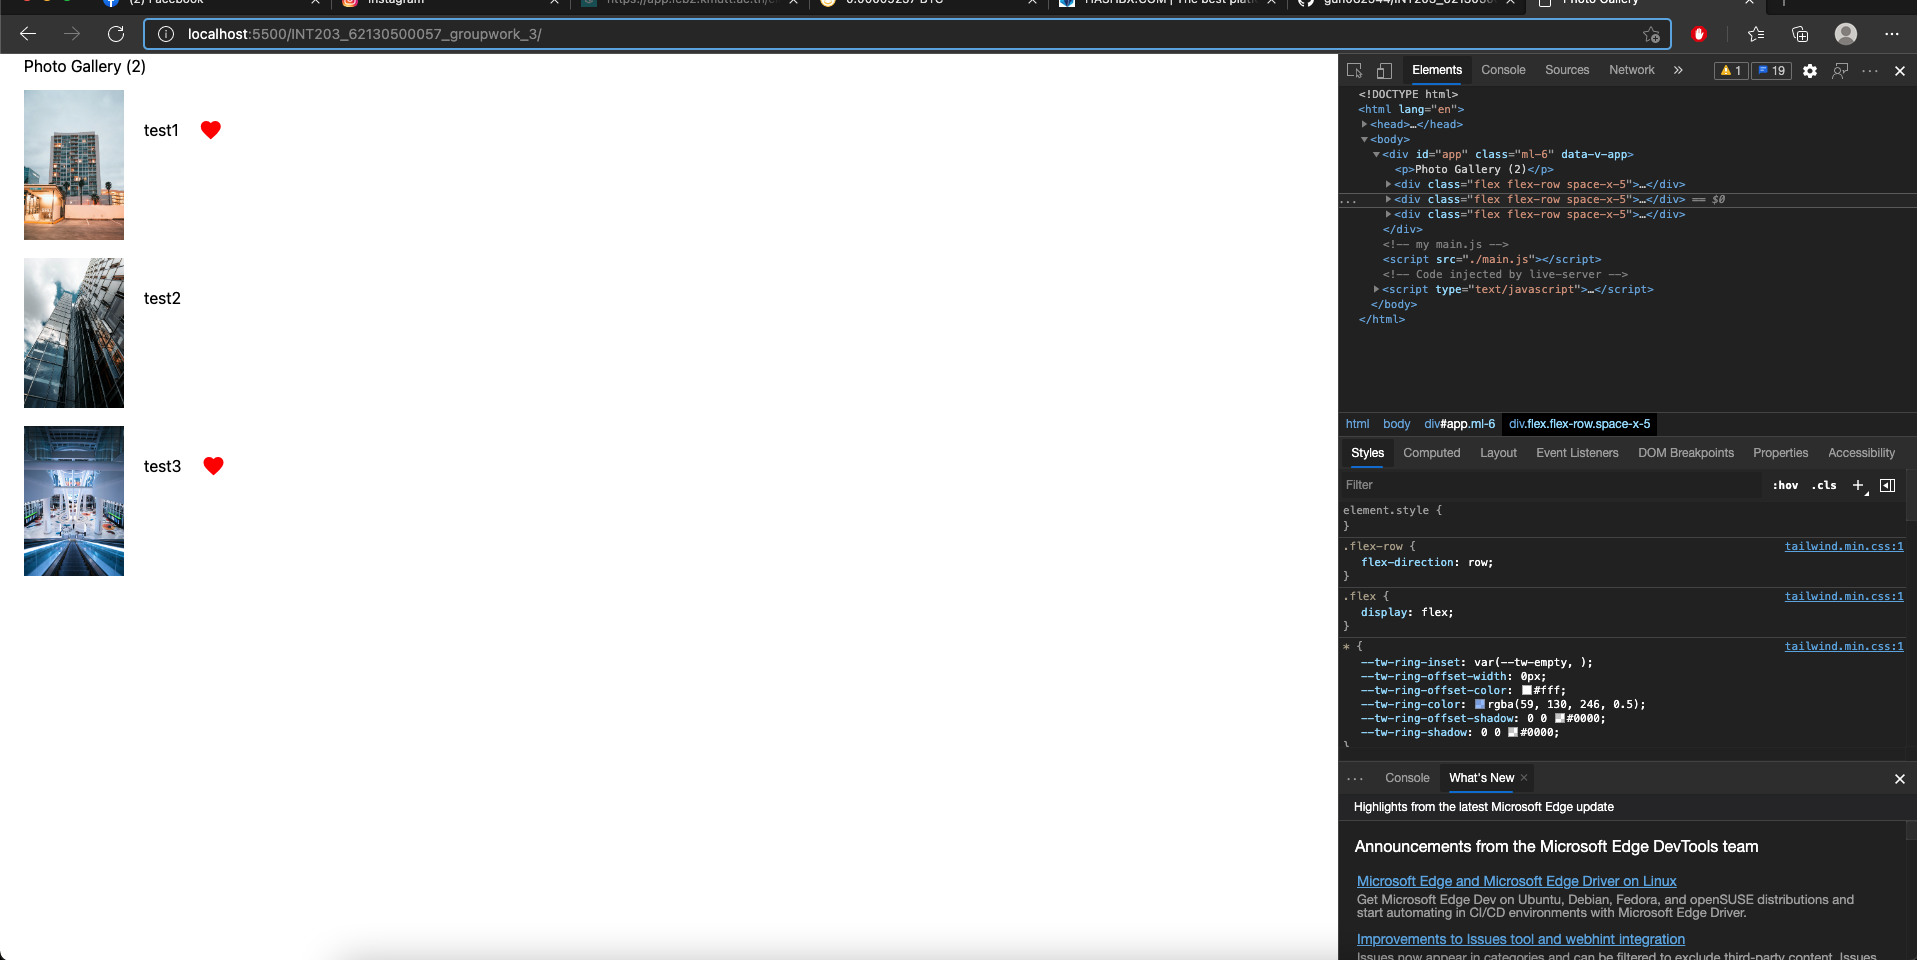
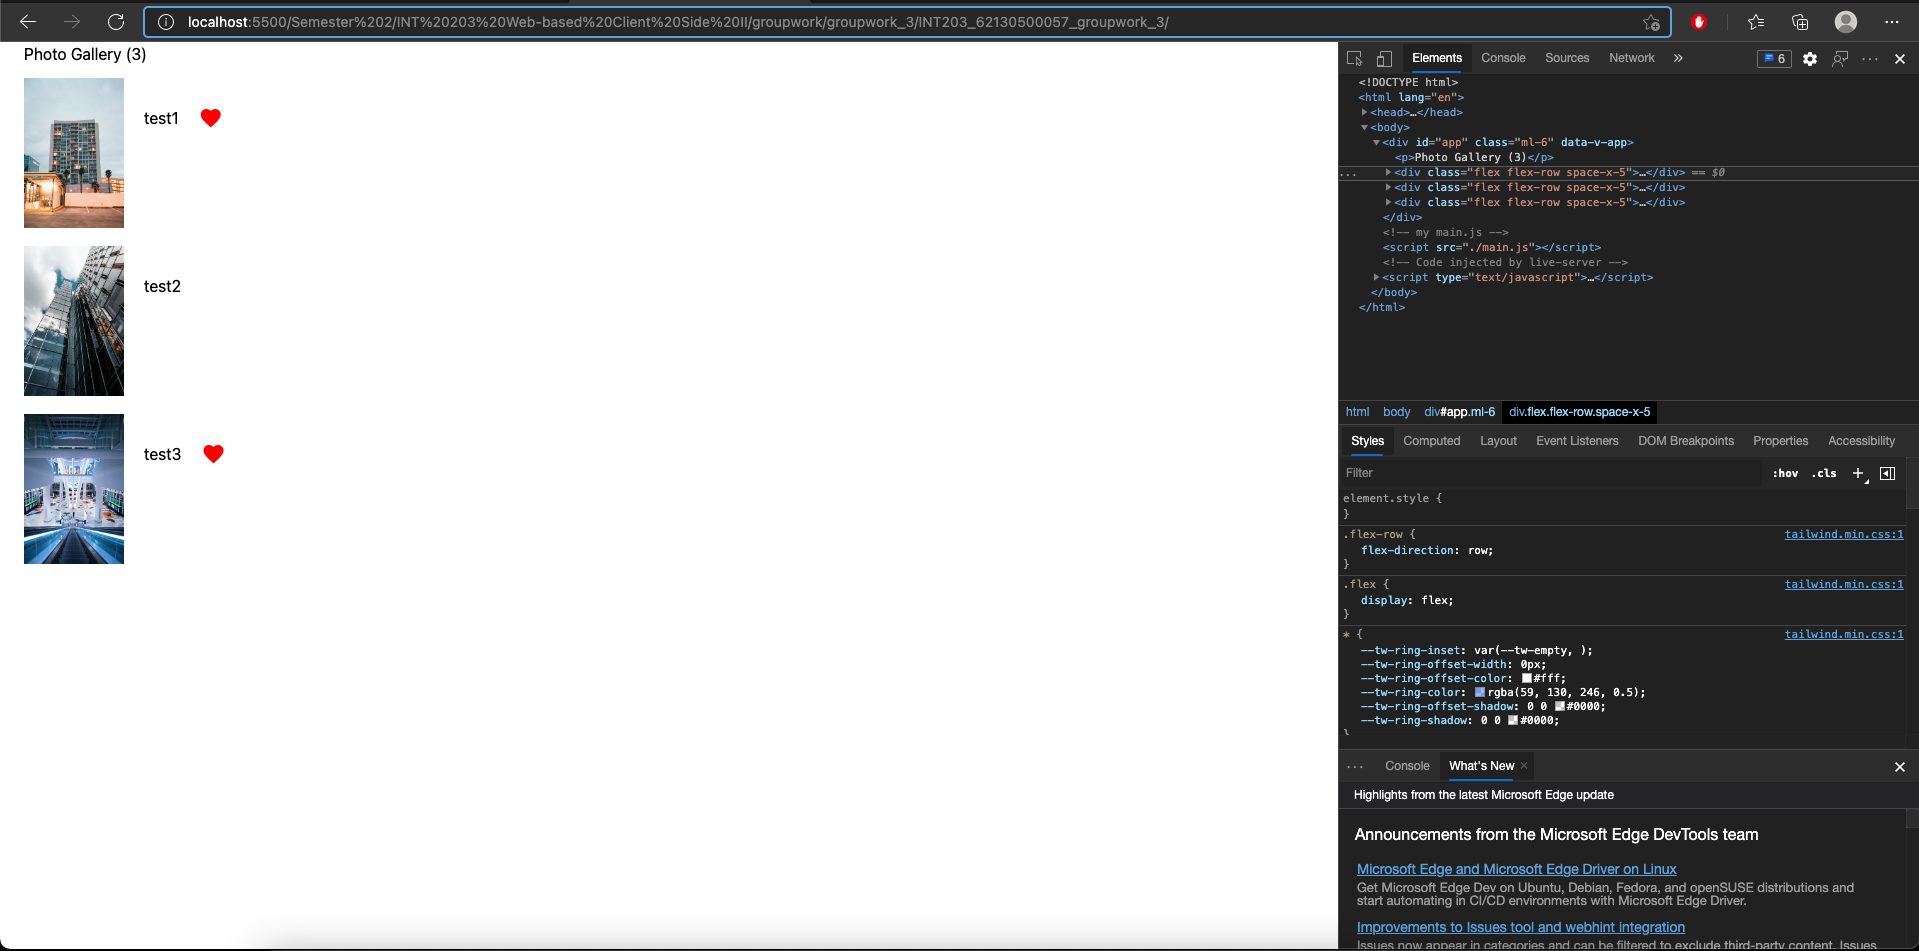
[UPDATE] computed & preview.png

diff --git a/INT203_62130500057_groupwork_3/main.js b/INT203_62130500057_groupwork_3/main.js
@@ -16,7 +16,8 @@ const app = {
     },
     computed:{
         countShow(){
-            return this.pictures.filter(s => s.showFav).length;
+            // return this.pictures.filter(s => s.showFav).length;
+            return this.pictures.length;
         }
     }
 };
